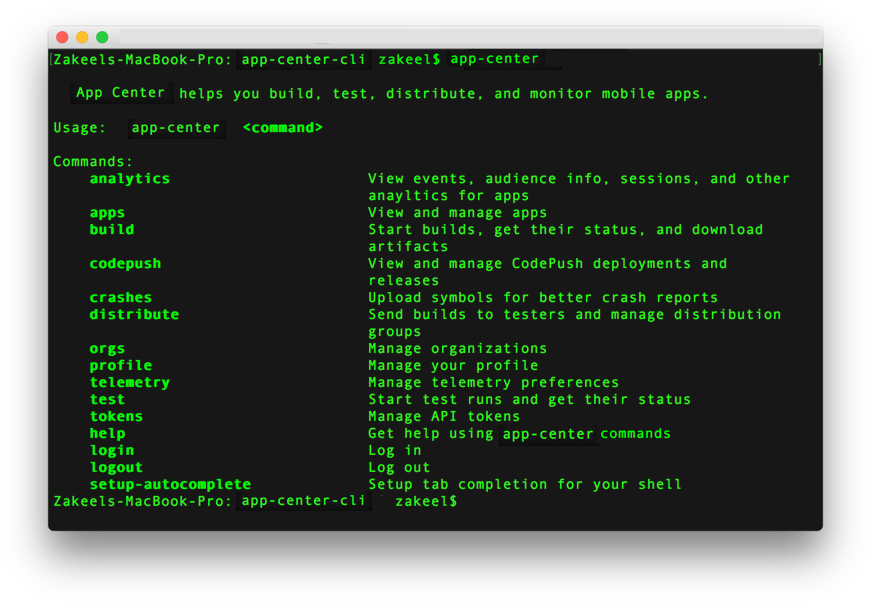
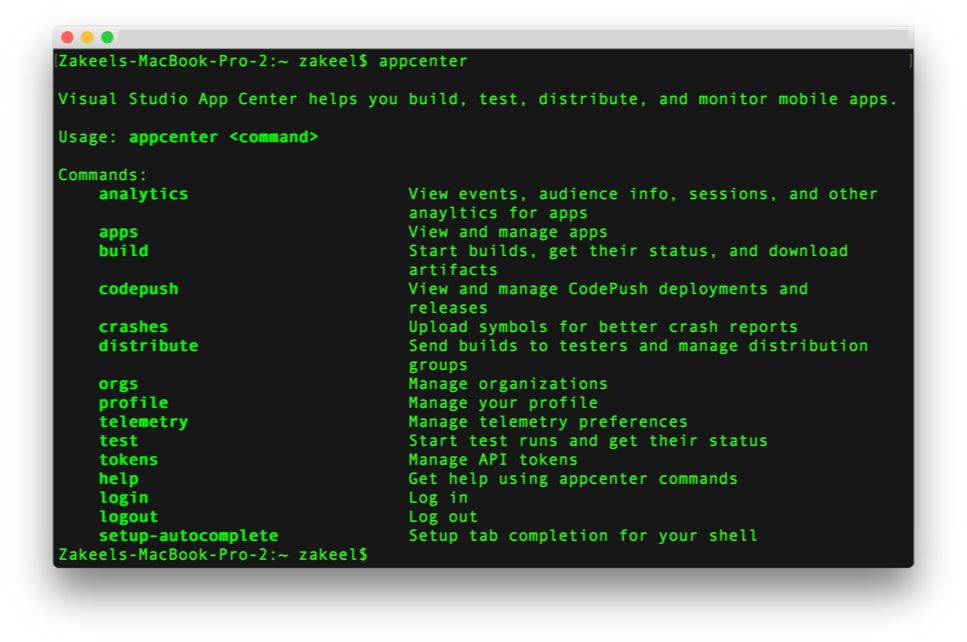
Updates to App Center CLI images + Minor fixes (#375)
* updated to new cli images

* Additional fixes

* Additional fixes

* removed html

Changed region(s): [[0.031, 0.1488, 0.961, 0.8926], [0.062, 0.0298, 0.961, 0.119]]

diff --git a/vs-mobile-center-docs/distribution/codepush/migrationguide.md b/vs-mobile-center-docs/distribution/codepush/migrationguide.md
@@ -13,7 +13,7 @@ ms.custom: distribute
 
 # Migration Guide
 
-Visual Studio App Center (previously known as Visial Studio Mobile Center) is now the new home of CodePush. App Center is a development tool that includes a set of cloud services for building and managing mobile applications. App center is the next generation of HockeyApp and Xamarin Test Cloud. More information about App Center can be found [here](https://docs.microsoft.com/appcenter)
+Visual Studio App Center (previously known as Visial Studio Mobile Center) is now the new home of CodePush. App Center is a development tool that includes a set of cloud services for building and managing mobile applications. App Center is the next generation of HockeyApp and Xamarin Test Cloud. More information about App Center can be found [here](https://docs.microsoft.com/appcenter)
 
 The movement of CodePush into App Center is a step forward in improving the overall user experience and progression of CodePush. 
 
@@ -22,7 +22,8 @@ Regardless, change is hard. Because of this, this guide was made to ensure that 
 If you're a current CodePush user, your account has already been migrated for you. All of your CodePush data can be accessed by simply logging into [App Center](https://appcenter.ms). If not, that's okay too! You can get started by creating an account [here](https://appcenter.ms).
 
 
-# Getting Started
+
+## Getting Started
 
 
 
@@ -30,30 +31,35 @@ If you're a current CodePush user, your account has already been migrated for yo
 
 Depending on the status of your account, the process is a little different: 
 
-* Current CodePush users: : We've already migrated your account! No further action is required regarding account set up is required. You can access your account data by logging into [App Center](https://appcenter.ms)
+* **Current CodePush users:** We've already migrated your account! No further action is required regarding account set up is required. You can access your account data by logging into [App Center](https://appcenter.ms).
 
-* New CodePush users: Please create an account on [App Center](https://appcenter.ms). 
+* **New CodePush users:** Please create an account on [App Center](https://appcenter.ms). 
 
-*Note: If you had both a CodePush and App Center account that shared an email address, then no further action is required. These accounts will be merged upon logging in to App Center.*
-<br/><br/>
+ > [!NOTE]
+ > If you had both a CodePush and App Center account that shared an email address, then no further action is required. These accounts will be merged upon logging in to App Center.
+
 
 
 **2. Getting Set up in the App Center Portal**
 
 
 Once you login, the first thing you will see is a list of all your applications. If you had a previous CodePush application, you should find it listed and annotated.
-<br/><br/>
+
+
 ![All Your Apps](./images/mg-portal-1.png)
-<br/><br/>
+
+
 The back-end migration of CodePush into App Center was completed on June 2nd, 2017. If any of your apps were made before this, you will have to specify the OS and Platform of the app.
-<br/><br/>
+
+
 ![Import](./images/mg-portal-2.png)
-<br/><br/>
-If you specify that your app is a Cordova or Windows application, you may notice that we don't yet support these platforms within the portal; if this is the case, please do not despair as you will still be able to use the App Center CLI and we are working on supporting these platforms in the portal. App Center's mission is to provide quality support for as many mobile platforms as possible; we are working hard to make it so. Periodically check out our [blog](https://blogs.msdn.microsoft.com/appcenter/) for news and updates and our product [roadmap](https://docs.microsoft.com/appcenter/general/roadmap).
-<br/><br/>
+
+
+If you specify that your app is a Cordova application, you may notice that we don't yet support this platforms within the portal; if this is the case, please do not despair as you will still be able to use the App Center CLI and we are working on supporting additional platforms in the portal. App Center's mission is to provide quality support for as many  platforms as possible; we are working hard to make it so. Periodically check out our [blog](https://blogs.msdn.microsoft.com/vsappcenter/) for news and updates and our product [roadmap](https://docs.microsoft.com/appcenter/general/roadmap).
+
+
 If your imported app's platform is React Native or if you are starting a new React Native app from scratch, you should see an app overview panel that lets you manage your app and provides you with instruction on how to integrate other App Center SDKs. Please note that your app secret is *not* the same as your CodePush deployment keys; the latter can be discovered by running `appcenter codepush deployment list <ownerName>/<appName>` from the CLI and soon will also be exposed in the App Center dashboard. The app secret is what allows your app to send information to App Center.
-<br/><br/>
-<br/><br/>
+
 
 
 **3. Install the App Center CLI**
@@ -66,34 +72,43 @@ npm install -g appcenter-cli
 
 Once installed, use the `appcenter` command. Also, see below for the available commands. To log in to your account use the `appcenter login`. This command will open the App Center website and present you with an authentication token.
 
+
 ![AuthToken](./images/mg-auth.png)
+
 
 The token must be put into the CLI for authentication and to complete the login process. 
 
+
 ![Login](./images/mg-terminalkey.png)
+
 
 After completing this, you are free to use CodePush functionality in your apps through the App Center CLI.
 
 
 
-
  
-# Using CodePush in the App Center Portal
+## Using CodePush in the App Center Portal
 
 CodePush can be found within the Distribution section of the App Center portal. CodePush is only visible in App Center when using React Native and, in the near future, Cordova applications. 
 
 If your application has a history of releases for a given deployment, these releases will be visible. Switching between deployments is as simple as using the dropdown at the upper right-hand corner of the screen. 
-<br/><br/>
+
+
 ![Release Detail](./images/mg-portal-3.png)
-<br/><br/>
+
+
 Clicking the "Edit" button will provide you with a panel for patching your release. Editing the items on this page would be equivalent to using `appcenter codepush patch`.
-<br/><br/>
+
+
 ![Release Patch](./images/mg-portal-4.png)
-<br/><br/>
+
+
 For now, developers using CodePush must distribute releases using the release commands in the App Center CLI, but we are looking into extending this functionality to the App Center dashboard as well. Please note that if you create your React Native app using the dashboard, you *first* will have to create default deployments using App Center.
-<br/><br/>
+
+
 ![CreateDeployments](./images/mg-portal-5.png)
-<br/><br/>
+
+
 Or you can use the following commands in the App Center CLI to create the recommended deployments prior to pushing a release:
 
 ```
@@ -101,14 +116,18 @@ appcenter codepush deployment add -a <ownerName>/<appName> Staging
 appcenter codepush deployment add -a <ownerName>/<appName> Production
 ```
 
-# The App Center CLI Experience
+
+
+## The App Center CLI Experience
+
 
 ![CLI](./images/mg-terminalpic.png)
+
 
 This section was constructed to enable you to see some of the most common CodePush commmands and how they have changed within the App Center CLI. 
 
 > [!TIP]
-> Most App Center CLI commmands can be shortened by using `appcenter apps set-current <ownerName>/<appName>`. By setting an appp as the current app you no longer have to use the -a flag to specify the app you're trying to perform the command on.*
+> Most App Center CLI commmands can be shortened by using `appcenter apps set-current <ownerName>/<appName>`. By setting an appp as the current app you no longer have to use the -a flag to specify the app you're trying to perform the command on.
 
 
 **Creating an App in the App Center CLI:**
@@ -135,10 +154,11 @@ appcenter codepush deployment list MyApp
 | `code-push release-react MyApp ios` | if current app is set: `appcenter codepush release-react`<br/>if not: `appcenter codepush release-react -a <ownerName>/MyApp`  |
 | `code-push access-key list` | `appcenter tokens list` 
 
-<br/>
-<br/>
 
-# Mobile Center CLI CodePush Cheat Sheet:
+
+
+
+## Mobile Center CLI CodePush Cheat Sheet:
 
 | Command                               | Description                              |  Example               |
 | ------------------------------------- | ---------------------------------------- | ---------------------- |
@@ -164,38 +184,49 @@ appcenter codepush deployment list MyApp
 | `appcenter codepush release-react`| Release a React Native update to an app deployment | `appcenter codepush release-react -x`
 | `appcenter codepush rollback`| Rollback the latest release for an app deployment | `appcenter codepush rollback Staging`
 
-# FAQ
+
+
+
+## FAQ
 
 **Q:** *Will the move impact my customers?*
-<br/>
-**A:** No
-<br/><br/>
-**Q:** *What changes for CodePush?*
-<br/>
-**A:** As of now, the only big change is the use of the App Center CLI and the structure of the commands. No changes in your code will be neccesarry until the release of the new SDK next year. In addition to this, CodePush will no longer be open sourced. The CodePush team would like to extend our graditude for your help in making CodePush what it is today. None of this would be possible without such an amazing community. 
-<br/><br/> 
-**Q:** *Is using CodePush functionality still free?*
-<br/>
-**A:** Yes. 
-<br/><br/>
-**Q:** *Why the move?*
-<br/>
-**A:** Moving to App Center means more support, more resources, and a home among Microsoft's first class services for mobile development.
-<br/><br/>
-**Q:** *Will I still be able to log on?*
-<br/>
-**A:** Yes. 
-<br/><br/>
-**Q:** *Can I continue to use the CLI?*
-<br/>
-**A:** Yes, we are commited to maintain the CLI through September 2018. You are free to continue using the CLI, but all features besides release and viewing metrics will be disabled in Late March 2018. Finally, the CodePush CLI will be retired in Mid October 2018. 
-<br/><br/>
-**Q:** *Will I need to create a new account for App Center if I already have one?*
-<br/>
-**A:** If you used the same email for both accounts, you will be able to log into App Center using your original account. If not, one will be created for your CodePush app. If you would like to manage your apps from the same account you will need to create an organization in App Center, add your new account to it, and transfer your application to the organization.  
-<br/><br/>
 
-# Helpful Resources
+**A:** No
+
+
+**Q:** *What changes for CodePush?*
+
+**A:** As of now, the only big change is the use of the App Center CLI and the structure of the commands. No changes in your code will be neccesarry until the release of the new SDK next year. In addition to this, CodePush will no longer be open sourced. The CodePush team would like to extend our graditude for your help in making CodePush what it is today. None of this would be possible without such an amazing community. 
+
+**Q:** *Is using CodePush functionality still free?*
+
+**A:** Yes. 
+
+
+**Q:** *Why the move?*
+
+**A:** Moving to App Center means more support, more resources, and a home among Microsoft's first class services for mobile development.
+
+
+**Q:** *Will I still be able to log on?*
+
+**A:** Yes. 
+
+
+
+**Q:** *Can I continue to use the CLI?*
+
+**A:** Yes, we are commited to maintain the CLI through September 2018. You are free to continue using the CLI, but all features besides release and viewing metrics will be disabled in Late March 2018. Finally, the CodePush CLI will be retired in Mid October 2018. 
+
+
+
+**Q:** *Will I need to create a new account for App Center if I already have one?*
+
+**A:** If you used the same email for both accounts, you will be able to log into App Center using your original account. If not, one will be created for your CodePush app. If you would like to manage your apps from the same account you will need to create an organization in App Center, add your new account to it, and transfer your application to the organization.  
+
+
+
+## Helpful Resources
 
 * [CodePush Documentation](~/distribution/codepush/index.md)
 * [App Center/CodePush Roadmap](~/general/roadmap.md)
